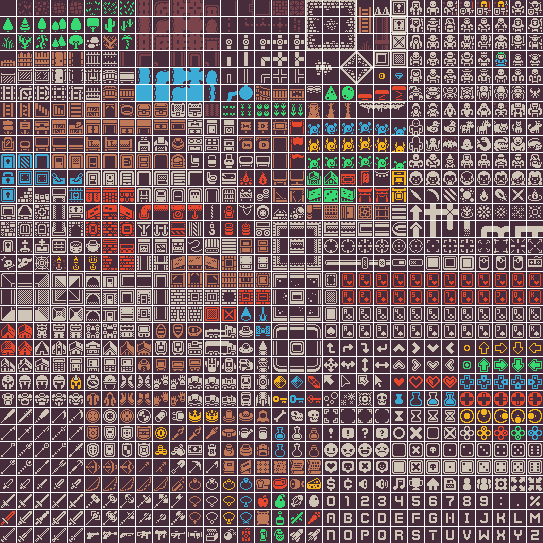
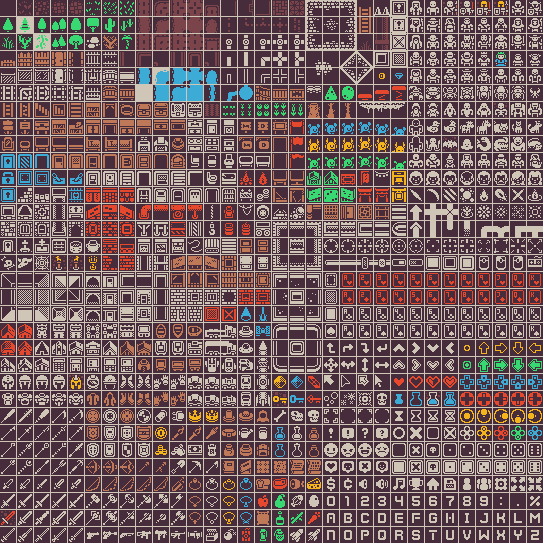
Add better graphics: - Smooth background behind items (key, bat) - Add animation to torch flame - Fix bug with inventory display

Changed region(s): [[0.0, 0.5304, 0.9724, 0.9724], [0.0295, 0.0295, 0.5009, 0.5009], [0.5304, 0.0295, 0.9724, 0.5009]]

diff --git a/src/main/java/com/codecool/dungeoncrawl/Main.java b/src/main/java/com/codecool/dungeoncrawl/Main.java
@@ -16,7 +16,6 @@ import javafx.scene.control.Alert;
 import javafx.scene.control.ButtonType;
 import javafx.scene.control.Label;
 import javafx.scene.input.KeyEvent;
-import javafx.scene.layout.*;
 import javafx.scene.paint.Color;
 import javafx.stage.Stage;
 
@@ -26,13 +25,10 @@ import java.util.Optional;
 import javafx.scene.input.KeyCode;
 import javafx.scene.input.KeyCodeCombination;
 import javafx.scene.input.KeyCombination;
-import javafx.scene.input.KeyEvent;
 import javafx.scene.layout.BorderPane;
 import javafx.scene.layout.GridPane;
-import javafx.scene.paint.Color;
-import javafx.stage.Stage;
 
-import java.sql.SQLException;import javafx.scene.control.Label;
+import java.sql.SQLException;
 
 public class Main extends Application {
     LEVEL level = LEVEL.START;
@@ -56,11 +52,11 @@ public class Main extends Application {
     }
 
     @Override
-    public void start(Stage primaryStage) throws Exception {
+    public void start(Stage primaryStage){
         setupDbManager();
-        GridPane ui = new GridPane();
-        ui.setPrefWidth(200);
-        ui.setPadding(new Insets(10));
+//        GridPane ui = new GridPane();
+//        ui.setPrefWidth(200);
+//        ui.setPadding(new Insets(10));
 
 
         ui.setPrefWidth(200);
@@ -125,18 +121,18 @@ public class Main extends Application {
                 break;
             case SPACE:
                 map.addInventory();
-                refresh();
+//                refresh();
                 break;
             case I:
                 clearInventoryText();
                 String inventory = map.getPlayer().inventoryToString();
                 ui.add(new Label("Inventory:"), 0, 1);
                 ui.add(new Label(inventory), 1, 1);
-                refresh();
+//                refresh();
                 break;
             case ESCAPE:
                 clearInventoryText();
-                refresh();
+//                refresh();
                 break;
             case S:
                 Player player = map.getPlayer();
@@ -167,7 +163,20 @@ public class Main extends Application {
         moveMonsters();
         removeDisappearingWall();
         drawMap();
+        animateTorchFlame();
         stepNextLevel();
+    }
+
+    private void animateTorchFlame() {
+        for (Cell[] cellArray : map.getCells()) {
+            for (Cell cell : cellArray) {
+                if (cell.getType() == CellType.TORCH_A) {
+                    cell.setType(CellType.TORCH_B);
+                } else if (cell.getType() == CellType.TORCH_B) {
+                    cell.setType(CellType.TORCH_A);
+                }
+            }
+        }
     }
 
     private void drawMap() {

diff --git a/src/main/java/com/codecool/dungeoncrawl/logic/MapLoader.java b/src/main/java/com/codecool/dungeoncrawl/logic/MapLoader.java
@@ -91,7 +91,7 @@ public class MapLoader {
                             cell.setType(CellType.SPIDERWEB);
                             break;
                         case 't':
-                            cell.setType(CellType.TORCH);
+                            cell.setType(CellType.TORCH_A);
                             break;
                         default:
                             throw new RuntimeException("Unrecognized character: '" + line.charAt(x) + "'");

diff --git a/src/main/java/com/codecool/dungeoncrawl/Tiles.java b/src/main/java/com/codecool/dungeoncrawl/Tiles.java
@@ -45,7 +45,8 @@ public class Tiles {
         tileMap.put("strongest_potion", new Tile(26,23));
         tileMap.put("potion_seller", new Tile(29,3));
         tileMap.put("spiderweb", new Tile(2,15));
-        tileMap.put("torch", new Tile(3,15));
+        tileMap.put("torch_a", new Tile(3,15));
+        tileMap.put("torch_b", new Tile(4,15));
     }
 
     public static void drawTile(GraphicsContext context, Drawable d, int x, int y) {

diff --git a/src/main/java/com/codecool/dungeoncrawl/logic/CellType.java b/src/main/java/com/codecool/dungeoncrawl/logic/CellType.java
@@ -9,7 +9,8 @@ public enum CellType {
     DISAPPEARING_WALL("disappearing_wall"),
     SWORD("sword"),
     SPIDERWEB("spiderweb"),
-    TORCH("torch"),
+    TORCH_A("torch_a"),
+    TORCH_B("torch_b"),
     HELMET("helmet"),
     KEY("key"),
     CLOSED_DOOR("closed_door"),
